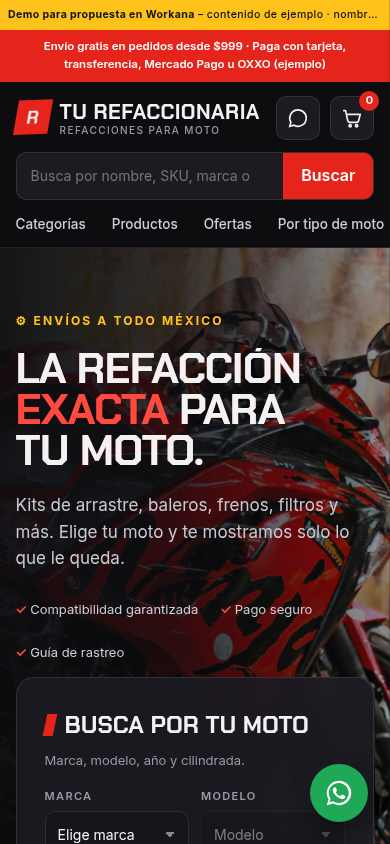
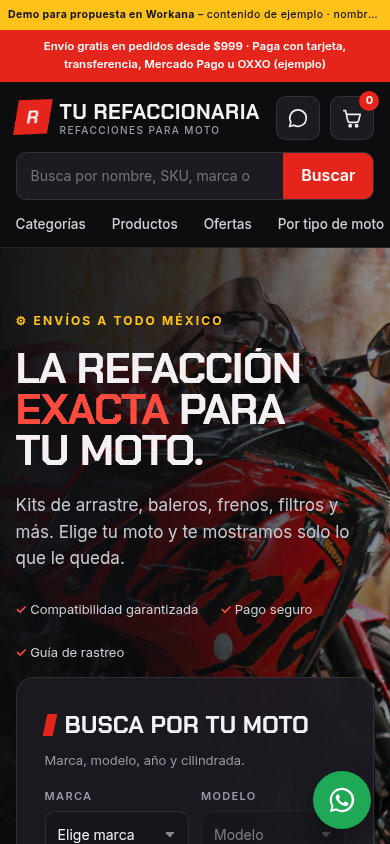
Agregar una moto en carretera animada con el scroll y quitar el cursor amarillo.
La moto recorre la carretera al hacer scroll (GSAP ScrollTrigger), con ruedas que giran, líneas punteadas y paisaje en paralaje. Si el usuario pide menos movimiento, la escena se queda estática. El cursor del sistema vuelve a ser el normal.

Changed region(s): [[0.7692, 0.8934, 0.9538, 0.9858], [0.9846, 0.0, 1.0, 0.0924]]

diff --git a/index.html b/index.html
@@ -16,6 +16,7 @@
 <meta name="robots" content="noindex, follow">
 <meta name="theme-color" content="#0d0d10">
 <!-- anim: padel-port 2026-11-10 -->
+<!-- anim: ride-road 2026-11-10 -->
 <link rel="preconnect" href="https://fonts.googleapis.com"><link rel="preconnect" href="https://fonts.gstatic.com" crossorigin>
 <link href="https://fonts.googleapis.com/css2?family=Chakra+Petch:wght@500;600;700&family=Inter:wght@400;500;600;700&display=swap" rel="stylesheet">
 <script type="application/ld+json">
@@ -223,19 +224,60 @@ header.top.is-scrolled{box-shadow:0 10px 30px -18px rgba(0,0,0,.8)}
 .dots{background-image:radial-gradient(rgba(229,37,27,.14) 1.4px,transparent 1.6px);background-size:22px 22px}
 .cats,.perks{background-size:22px 22px}
 #progress{position:fixed;left:0;right:0;top:0;height:3px;background:var(--red);transform:scaleX(0);transform-origin:0 50%;z-index:100;pointer-events:none}
-#cursor{position:fixed;left:0;top:0;width:14px;height:14px;margin:-7px 0 0 -7px;border-radius:50%;background:var(--yel);z-index:120;pointer-events:none;mix-blend-mode:difference;transition:width .3s,height .3s,margin .3s;opacity:0}
-#cursor.on{opacity:1}
-#cursor.big{width:54px;height:54px;margin:-27px 0 0 -27px}
-html.has-cursor,html.has-cursor *{cursor:none!important}
-html.has-cursor input,html.has-cursor textarea,html.has-cursor select{cursor:text!important}
 .burst{position:absolute;width:10px;height:10px;border-radius:50%;background:var(--yel);pointer-events:none;z-index:5}
 .p,.ty,.pk div,.chip{transform-style:preserve-3d}
 .sec-motion{position:relative;z-index:10}
 .js .hero-anim,.js [data-load]{opacity:0}
 html.reduced .echo-ghost{display:none}
-html.reduced .scroll-cue,html.reduced #cursor,html.reduced #progress{display:none}
+html.reduced .scroll-cue,html.reduced #progress{display:none}
 .drawer,.items{overscroll-behavior:contain}
 @media (max-width:900px){.scroll-cue{display:none}}
+
+/* ---------- scroll-scrubbed road / moto ---------- */
+.ride{position:relative;z-index:8;background:#08080d;color:var(--text)}
+.ride-inner{position:relative;height:100svh;min-height:540px;overflow:hidden}
+.ride-sky{position:absolute;inset:0;background:linear-gradient(180deg,#07070c 0%,#12101a 38%,#2a1518 68%,#6a3218 88%,#c45a28 100%)}
+.ride-stars{position:absolute;inset:0 0 38% 0;opacity:.75;background-image:
+  radial-gradient(1px 1px at 8% 18%,#fff 50%,transparent),
+  radial-gradient(1.2px 1.2px at 22% 8%,#fff 50%,transparent),
+  radial-gradient(1px 1px at 36% 22%,#fff 50%,transparent),
+  radial-gradient(1.4px 1.4px at 48% 10%,#fff 50%,transparent),
+  radial-gradient(1px 1px at 62% 16%,#fff 50%,transparent),
+  radial-gradient(1px 1px at 74% 6%,#fff 50%,transparent),
+  radial-gradient(1.2px 1.2px at 86% 20%,#fff 50%,transparent),
+  radial-gradient(1px 1px at 14% 32%,#fff 50%,transparent),
+  radial-gradient(1px 1px at 58% 28%,#fff 50%,transparent),
+  radial-gradient(1.3px 1.3px at 92% 12%,#fff 50%,transparent);pointer-events:none}
+.ride-far{position:absolute;left:-8%;width:120%;bottom:30%;height:36%;z-index:1}
+.ride-far svg{width:100%;height:100%;display:block}
+.ride-mid{position:absolute;left:0;bottom:28%;width:320%;height:32%;z-index:2;display:flex;align-items:flex-end;gap:8vw;padding:0 4vw;will-change:transform}
+.ride-mid svg{display:block;flex:none;max-height:90px;width:auto}
+.ride-lamps{position:absolute;left:0;bottom:31%;width:320%;height:42%;z-index:3;display:flex;align-items:flex-end;gap:16vw;padding-left:6vw;will-change:transform;pointer-events:none}
+.lamp{position:relative;width:5px;height:72%;background:linear-gradient(#4a4a52,#1a1a1e);border-radius:2px 2px 0 0;flex:none}
+.lamp i{position:absolute;top:-6px;left:50%;width:46px;height:14px;margin-left:-8px;border-radius:0 0 10px 10px;background:#ffc21a;box-shadow:0 10px 28px 8px rgba(255,194,26,.28),0 40px 50px 16px rgba(255,194,26,.08)}
+.ride-road{position:absolute;left:0;right:0;bottom:0;height:34%;z-index:4;background:linear-gradient(180deg,#4a4a52 0%,#242428 10%,#16161a 40%,#101014 100%)}
+.ride-asphalt{position:absolute;left:-5%;width:110%;top:9%;height:42%;background:linear-gradient(180deg,#3a3a42,#1c1c20 40%,#141416);box-shadow:0 -8px 20px rgba(0,0,0,.25) inset;overflow:hidden;transform:perspective(400px) rotateX(12deg);transform-origin:50% 0}
+.ride-dashes{position:absolute;left:0;top:48%;height:7px;width:400%;background:repeating-linear-gradient(90deg,#ffc21a 0 58px,transparent 58px 130px);box-shadow:0 0 10px rgba(255,194,26,.4);will-change:transform}
+.ride-edge{position:absolute;left:0;width:400%;height:3px;background:#e8e8ec;opacity:.85}
+.ride-edge-l{top:10%}.ride-edge-r{bottom:10%}
+.ride-near{position:absolute;left:0;bottom:0;width:320%;height:18%;z-index:6;background:repeating-linear-gradient(90deg,#2a2a30 0 14px,#1a1a1e 14px 18px,#8a8a92 18px 20px,#1a1a1e 20px 70px);opacity:.9;will-change:transform;pointer-events:none}
+.ride-bike{position:absolute;left:6%;bottom:11%;width:min(48vw,640px);z-index:7;will-change:transform;filter:drop-shadow(0 18px 18px rgba(0,0,0,.45))}
+.ride-bike svg{width:100%;height:auto;display:block;overflow:visible}
+.ride-beam{position:absolute;left:78%;top:36%;width:50%;height:30%;background:linear-gradient(90deg,rgba(255,213,106,.5),rgba(255,213,106,.12) 46%,transparent);clip-path:polygon(0 42%,100% 8%,100% 92%,0 58%);filter:blur(2px);pointer-events:none;z-index:0}
+.ride-copy{position:absolute;left:4vw;top:clamp(20px,8vh,70px);z-index:8;max-width:min(520px,90vw)}
+.ride-copy .h2,.ride-copy .echo-main{font-size:clamp(28px,4vw,52px);margin-top:6px;color:var(--text)}
+.ride-copy .echo-ghost{color:var(--red2)}
+.ride-copy p{color:#d8d0c8;max-width:420px;margin-top:10px;font-size:15px}
+html.reduced .ride-bike{left:22%}
+html.reduced .ride-dashes,html.reduced .ride-mid,html.reduced .ride-lamps,html.reduced .ride-near,html.reduced .ride-far{transform:none!important}
+@media (max-width:900px){
+  .ride-inner{min-height:480px}
+  .ride-bike{width:min(78vw,440px);bottom:13%;left:2%}
+  html.reduced .ride-bike{left:8%}
+  .ride-copy{top:16px}
+  .ride-copy p{font-size:13px}
+  .ride-lamps{height:36%}
+}
 @media (prefers-reduced-motion:reduce){
  *,*::before,*::after{animation:none!important;transition:none!important}
  .js .fade,.js .hero-anim,.js [data-load],.js #heroTitle .line>span{opacity:1;transform:none}
@@ -280,6 +322,259 @@ html.reduced .scroll-cue,html.reduced #cursor,html.reduced #progress{display:non
   <div class="myMoto" id="myMoto">Prueba: Italika · FT150 · 2022 · 150 cc</div>
  </form>
  <div class="scroll-cue" data-load><i></i>Desliza</div>
+</section>
+
+<section class="ride" id="ruta" aria-label="Ilustración: una motocicleta recorre una carretera al hacer scroll">
+ <div class="ride-inner">
+  <div class="ride-sky"></div>
+  <div class="ride-stars" aria-hidden="true"></div>
+  <div class="ride-far" aria-hidden="true">
+   <svg viewBox="0 0 1600 200" preserveAspectRatio="none">
+    <path d="M0 200 L0 138 L90 108 L180 128 L280 64 L360 118 L460 86 L560 128 L700 36 L820 118 L960 74 L1080 128 L1220 52 L1360 120 L1500 88 L1600 136 L1600 200Z" fill="#14101a"/>
+    <path d="M0 200 L0 158 L140 138 L280 152 L440 118 L620 148 L800 122 L980 152 L1180 128 L1380 150 L1600 142 L1600 200Z" fill="#1a1620"/>
+   </svg>
+  </div>
+  <div class="ride-mid" id="rideMid" aria-hidden="true"><div><svg viewBox="0 0 80 110" width="70" height="96" fill="#12141a"><path d="M38 110v-70c0-16 12-22 18-22 4 0 8 3 8 9v18c0 4-3 6-6 6-6 0-8-6-8-6v46"/><path d="M38 70c0-14-12-20-18-20-4 0-8 3-8 9v14c0 4 3 6 6 6 6 0 8-6 8-6v37h12"/></svg></div><div><svg viewBox="0 0 120 70" width="110" height="64" fill="#181a20"><path d="M60 70c-4-22-18-50-28-66 16 10 26 30 28 48 2-18 12-38 28-48-10 16-24 44-28 66z"/><path d="M60 70c-14-16-40-28-56-30 18 2 38 14 50 28 8-16 24-36 52-42-22 8-36 26-46 44z" opacity=".85"/></svg></div><div><svg viewBox="0 0 120 130" width="92" height="100"><rect x="54" y="70" width="12" height="60" fill="#2a2a30"/><rect x="8" y="8" width="104" height="66" rx="8" fill="#1b5e2a" stroke="#d8d8d8" stroke-width="3"/><text x="60" y="38" text-anchor="middle" fill="#fff" font-family="Inter,Arial,sans-serif" font-size="13" font-weight="700">MÉXICO</text><text x="60" y="58" text-anchor="middle" fill="#ffc21a" font-family="Inter,Arial,sans-serif" font-size="11" font-weight="700">ENVÍOS</text></svg></div><div><svg viewBox="0 0 80 110" width="70" height="96" fill="#12141a"><path d="M38 110v-70c0-16 12-22 18-22 4 0 8 3 8 9v18c0 4-3 6-6 6-6 0-8-6-8-6v46"/><path d="M38 70c0-14-12-20-18-20-4 0-8 3-8 9v14c0 4 3 6 6 6 6 0 8-6 8-6v37h12"/></svg></div><div><svg viewBox="0 0 120 70" width="110" height="64" fill="#181a20"><path d="M60 70c-4-22-18-50-28-66 16 10 26 30 28 48 2-18 12-38 28-48-10 16-24 44-28 66z"/><path d="M60 70c-14-16-40-28-56-30 18 2 38 14 50 28 8-16 24-36 52-42-22 8-36 26-46 44z" opacity=".85"/></svg></div><div><svg viewBox="0 0 70 90" width="60" height="78" fill="#14161c"><path d="M32 90V28c0-12 10-18 16-18 4 0 7 3 7 8v14c0 3-2 5-5 5-5 0-7-5-7-5v48"/><path d="M32 50c0-10-8-16-14-16-3 0-7 2-7 7v12c0 3 2 5 5 5 5 0 7-5 7-5v37h9"/></svg></div><div><svg viewBox="0 0 120 70" width="110" height="64" fill="#181a20"><path d="M60 70c-4-22-18-50-28-66 16 10 26 30 28 48 2-18 12-38 28-48-10 16-24 44-28 66z"/><path d="M60 70c-14-16-40-28-56-30 18 2 38 14 50 28 8-16 24-36 52-42-22 8-36 26-46 44z" opacity=".85"/></svg></div><div><svg viewBox="0 0 80 110" width="70" height="96" fill="#12141a"><path d="M38 110v-70c0-16 12-22 18-22 4 0 8 3 8 9v18c0 4-3 6-6 6-6 0-8-6-8-6v46"/><path d="M38 70c0-14-12-20-18-20-4 0-8 3-8 9v14c0 4 3 6 6 6 6 0 8-6 8-6v37h12"/></svg></div><div><svg viewBox="0 0 120 130" width="92" height="100"><rect x="54" y="70" width="12" height="60" fill="#2a2a30"/><rect x="8" y="8" width="104" height="66" rx="8" fill="#1b5e2a" stroke="#d8d8d8" stroke-width="3"/><text x="60" y="38" text-anchor="middle" fill="#fff" font-family="Inter,Arial,sans-serif" font-size="13" font-weight="700">MÉXICO</text><text x="60" y="58" text-anchor="middle" fill="#ffc21a" font-family="Inter,Arial,sans-serif" font-size="11" font-weight="700">ENVÍOS</text></svg></div><div><svg viewBox="0 0 120 70" width="110" height="64" fill="#181a20"><path d="M60 70c-4-22-18-50-28-66 16 10 26 30 28 48 2-18 12-38 28-48-10 16-24 44-28 66z"/><path d="M60 70c-14-16-40-28-56-30 18 2 38 14 50 28 8-16 24-36 52-42-22 8-36 26-46 44z" opacity=".85"/></svg></div><div><svg viewBox="0 0 80 110" width="70" height="96" fill="#12141a"><path d="M38 110v-70c0-16 12-22 18-22 4 0 8 3 8 9v18c0 4-3 6-6 6-6 0-8-6-8-6v46"/><path d="M38 70c0-14-12-20-18-20-4 0-8 3-8 9v14c0 4 3 6 6 6 6 0 8-6 8-6v37h12"/></svg></div><div><svg viewBox="0 0 120 70" width="110" height="64" fill="#181a20"><path d="M60 70c-4-22-18-50-28-66 16 10 26 30 28 48 2-18 12-38 28-48-10 16-24 44-28 66z"/><path d="M60 70c-14-16-40-28-56-30 18 2 38 14 50 28 8-16 24-36 52-42-22 8-36 26-46 44z" opacity=".85"/></svg></div><div><svg viewBox="0 0 80 110" width="70" height="96" fill="#12141a"><path d="M38 110v-70c0-16 12-22 18-22 4 0 8 3 8 9v18c0 4-3 6-6 6-6 0-8-6-8-6v46"/><path d="M38 70c0-14-12-20-18-20-4 0-8 3-8 9v14c0 4 3 6 6 6 6 0 8-6 8-6v37h12"/></svg></div><div><svg viewBox="0 0 120 70" width="110" height="64" fill="#181a20"><path d="M60 70c-4-22-18-50-28-66 16 10 26 30 28 48 2-18 12-38 28-48-10 16-24 44-28 66z"/><path d="M60 70c-14-16-40-28-56-30 18 2 38 14 50 28 8-16 24-36 52-42-22 8-36 26-46 44z" opacity=".85"/></svg></div><div><svg viewBox="0 0 120 130" width="92" height="100"><rect x="54" y="70" width="12" height="60" fill="#2a2a30"/><rect x="8" y="8" width="104" height="66" rx="8" fill="#1b5e2a" stroke="#d8d8d8" stroke-width="3"/><text x="60" y="38" text-anchor="middle" fill="#fff" font-family="Inter,Arial,sans-serif" font-size="13" font-weight="700">MÉXICO</text><text x="60" y="58" text-anchor="middle" fill="#ffc21a" font-family="Inter,Arial,sans-serif" font-size="11" font-weight="700">ENVÍOS</text></svg></div><div><svg viewBox="0 0 80 110" width="70" height="96" fill="#12141a"><path d="M38 110v-70c0-16 12-22 18-22 4 0 8 3 8 9v18c0 4-3 6-6 6-6 0-8-6-8-6v46"/><path d="M38 70c0-14-12-20-18-20-4 0-8 3-8 9v14c0 4 3 6 6 6 6 0 8-6 8-6v37h12"/></svg></div><div><svg viewBox="0 0 120 70" width="110" height="64" fill="#181a20"><path d="M60 70c-4-22-18-50-28-66 16 10 26 30 28 48 2-18 12-38 28-48-10 16-24 44-28 66z"/><path d="M60 70c-14-16-40-28-56-30 18 2 38 14 50 28 8-16 24-36 52-42-22 8-36 26-46 44z" opacity=".85"/></svg></div><div><svg viewBox="0 0 70 90" width="60" height="78" fill="#14161c"><path d="M32 90V28c0-12 10-18 16-18 4 0 7 3 7 8v14c0 3-2 5-5 5-5 0-7-5-7-5v48"/><path d="M32 50c0-10-8-16-14-16-3 0-7 2-7 7v12c0 3 2 5 5 5 5 0 7-5 7-5v37h9"/></svg></div><div><svg viewBox="0 0 120 70" width="110" height="64" fill="#181a20"><path d="M60 70c-4-22-18-50-28-66 16 10 26 30 28 48 2-18 12-38 28-48-10 16-24 44-28 66z"/><path d="M60 70c-14-16-40-28-56-30 18 2 38 14 50 28 8-16 24-36 52-42-22 8-36 26-46 44z" opacity=".85"/></svg></div><div><svg viewBox="0 0 80 110" width="70" height="96" fill="#12141a"><path d="M38 110v-70c0-16 12-22 18-22 4 0 8 3 8 9v18c0 4-3 6-6 6-6 0-8-6-8-6v46"/><path d="M38 70c0-14-12-20-18-20-4 0-8 3-8 9v14c0 4 3 6 6 6 6 0 8-6 8-6v37h12"/></svg></div><div><svg viewBox="0 0 120 130" width="92" height="100"><rect x="54" y="70" width="12" height="60" fill="#2a2a30"/><rect x="8" y="8" width="104" height="66" rx="8" fill="#1b5e2a" stroke="#d8d8d8" stroke-width="3"/><text x="60" y="38" text-anchor="middle" fill="#fff" font-family="Inter,Arial,sans-serif" font-size="13" font-weight="700">MÉXICO</text><text x="60" y="58" text-anchor="middle" fill="#ffc21a" font-family="Inter,Arial,sans-serif" font-size="11" font-weight="700">ENVÍOS</text></svg></div><div><svg viewBox="0 0 120 70" width="110" height="64" fill="#181a20"><path d="M60 70c-4-22-18-50-28-66 16 10 26 30 28 48 2-18 12-38 28-48-10 16-24 44-28 66z"/><path d="M60 70c-14-16-40-28-56-30 18 2 38 14 50 28 8-16 24-36 52-42-22 8-36 26-46 44z" opacity=".85"/></svg></div><div><svg viewBox="0 0 80 110" width="70" height="96" fill="#12141a"><path d="M38 110v-70c0-16 12-22 18-22 4 0 8 3 8 9v18c0 4-3 6-6 6-6 0-8-6-8-6v46"/><path d="M38 70c0-14-12-20-18-20-4 0-8 3-8 9v14c0 4 3 6 6 6 6 0 8-6 8-6v37h12"/></svg></div><div><svg viewBox="0 0 120 70" width="110" height="64" fill="#181a20"><path d="M60 70c-4-22-18-50-28-66 16 10 26 30 28 48 2-18 12-38 28-48-10 16-24 44-28 66z"/><path d="M60 70c-14-16-40-28-56-30 18 2 38 14 50 28 8-16 24-36 52-42-22 8-36 26-46 44z" opacity=".85"/></svg></div></div>
+  <div class="ride-lamps" id="rideLamps" aria-hidden="true"><div class="lamp"><i></i></div><div class="lamp"><i></i></div><div class="lamp"><i></i></div><div class="lamp"><i></i></div><div class="lamp"><i></i></div><div class="lamp"><i></i></div><div class="lamp"><i></i></div><div class="lamp"><i></i></div><div class="lamp"><i></i></div><div class="lamp"><i></i></div><div class="lamp"><i></i></div><div class="lamp"><i></i></div><div class="lamp"><i></i></div><div class="lamp"><i></i></div></div>
+  <div class="ride-road" aria-hidden="true">
+   <div class="ride-asphalt">
+    <div class="ride-edge ride-edge-l"></div>
+    <div class="ride-dashes" id="rideDashes"></div>
+    <div class="ride-edge ride-edge-r"></div>
+   </div>
+   <div class="ride-near" id="rideNear"></div>
+  </div>
+  <div class="ride-bike" id="rideBike">
+   <div class="ride-beam"></div>
+   <svg viewBox="0 0 820 440" fill="none" aria-hidden="true">
+  <defs>
+    <linearGradient id="rb-redBody" x1="200" y1="120" x2="660" y2="320" gradientUnits="userSpaceOnUse">
+      <stop offset="0" stop-color="#ff6a5c"/>
+      <stop offset=".35" stop-color="#e5251b"/>
+      <stop offset=".72" stop-color="#b31410"/>
+      <stop offset="1" stop-color="#6e0c0a"/>
+    </linearGradient>
+    <linearGradient id="rb-redDark" x1="0" y1="0" x2="0" y2="1">
+      <stop offset="0" stop-color="#c41b14"/>
+      <stop offset="1" stop-color="#5a0c0a"/>
+    </linearGradient>
+    <linearGradient id="rb-shine" x1="0" y1="0" x2="0" y2="1">
+      <stop offset="0" stop-color="#fff" stop-opacity=".4"/>
+      <stop offset=".55" stop-color="#fff" stop-opacity=".06"/>
+      <stop offset="1" stop-color="#fff" stop-opacity="0"/>
+    </linearGradient>
+    <linearGradient id="rb-metal" x1="0" y1="0" x2="0" y2="1">
+      <stop offset="0" stop-color="#edeff2"/>
+      <stop offset=".45" stop-color="#9aa0a8"/>
+      <stop offset="1" stop-color="#3e4248"/>
+    </linearGradient>
+    <linearGradient id="rb-metalFlat" x1="0" y1="0" x2="1" y2="1">
+      <stop offset="0" stop-color="#8a9098"/>
+      <stop offset="1" stop-color="#1c1e22"/>
+    </linearGradient>
+    <linearGradient id="rb-engineG" x1="300" y1="250" x2="460" y2="360" gradientUnits="userSpaceOnUse">
+      <stop offset="0" stop-color="#6a7078"/>
+      <stop offset=".4" stop-color="#2e3238"/>
+      <stop offset="1" stop-color="#121416"/>
+    </linearGradient>
+    <linearGradient id="rb-seatG" x1="0" y1="0" x2="0" y2="1">
+      <stop offset="0" stop-color="#3a3a42"/>
+      <stop offset="1" stop-color="#0c0c10"/>
+    </linearGradient>
+    <linearGradient id="rb-suit" x1="0" y1="0" x2="1" y2="1">
+      <stop offset="0" stop-color="#2c2e34"/>
+      <stop offset=".55" stop-color="#14151a"/>
+      <stop offset="1" stop-color="#08080a"/>
+    </linearGradient>
+    <linearGradient id="rb-helmetG" x1="470" y1="60" x2="560" y2="170" gradientUnits="userSpaceOnUse">
+      <stop offset="0" stop-color="#3e424a"/>
+      <stop offset=".4" stop-color="#1a1c20"/>
+      <stop offset="1" stop-color="#08090b"/>
+    </linearGradient>
+    <linearGradient id="rb-visorG" x1="0" y1="0" x2="1" y2="1">
+      <stop offset="0" stop-color="#9ad4ee" stop-opacity=".6"/>
+      <stop offset=".45" stop-color="#1a2a32" stop-opacity=".92"/>
+      <stop offset="1" stop-color="#05070a"/>
+    </linearGradient>
+    <linearGradient id="rb-forkG" x1="0" y1="0" x2="1" y2="0">
+      <stop offset="0" stop-color="#f0f2f5"/>
+      <stop offset=".5" stop-color="#8b9098"/>
+      <stop offset="1" stop-color="#3a3e44"/>
+    </linearGradient>
+    <radialGradient id="rb-hubG" cx="50%" cy="38%" r="62%">
+      <stop offset="0" stop-color="#f4f5f7"/>
+      <stop offset=".4" stop-color="#9aa0a8"/>
+      <stop offset="1" stop-color="#26282c"/>
+    </radialGradient>
+    <radialGradient id="rb-tireG" cx="34%" cy="28%" r="78%">
+      <stop offset="0" stop-color="#3a3a42"/>
+      <stop offset=".5" stop-color="#141418"/>
+      <stop offset="1" stop-color="#050506"/>
+    </radialGradient>
+    <linearGradient id="rb-discG" x1="0" y1="0" x2="1" y2="1">
+      <stop offset="0" stop-color="#d0d4da"/>
+      <stop offset=".5" stop-color="#7a8088"/>
+      <stop offset="1" stop-color="#3a3e44"/>
+    </linearGradient>
+    <filter id="rb-glowRed" x="-60%" y="-60%" width="220%" height="220%">
+      <feGaussianBlur stdDeviation="3.5" result="b"/>
+      <feMerge><feMergeNode in="b"/><feMergeNode in="SourceGraphic"/></feMerge>
+    </filter>
+    <filter id="rb-glowAmber" x="-80%" y="-80%" width="260%" height="260%">
+      <feGaussianBlur stdDeviation="6" result="b"/>
+      <feMerge><feMergeNode in="b"/><feMergeNode in="SourceGraphic"/></feMerge>
+    </filter>
+    <g id="rb-wheelArt">
+      <circle r="73" fill="url(#rb-tireG)"/>
+      <circle r="73" fill="none" stroke="#070708" stroke-width="2.4"/>
+      <circle r="63.5" fill="none" stroke="#2a2a30" stroke-width="5.5"/>
+      <circle r="59.5" fill="none" stroke="#111114" stroke-width="1.1"/>
+      <g stroke="#0a0a0c" stroke-width="1.3" opacity=".65">
+        <path d="M0 -73v6M0 73v-6M73 0h-6M-73 0h6M51.6 -51.6l-4.2 4.2M-51.6 51.6l4.2-4.2M51.6 51.6l-4.2-4.2M-51.6 -51.6l4.2 4.2"/>
+      </g>
+      <circle r="42" fill="url(#rb-discG)"/>
+      <circle r="39" fill="none" stroke="#c4c8ce" stroke-width="1.1"/>
+      <g fill="#1a1c20">
+        <circle r="4" cx="18" cy="0"/><circle r="4" cx="-18" cy="0"/>
+        <circle r="4" cx="0" cy="18"/><circle r="4" cx="0" cy="-18"/>
+        <circle r="4" cx="12.7" cy="12.7"/><circle r="4" cx="-12.7" cy="12.7"/>
+        <circle r="4" cx="12.7" cy="-12.7"/><circle r="4" cx="-12.7" cy="-12.7"/>
+      </g>
+      <circle r="50" fill="none" stroke="#e2e4e8" stroke-width="3"/>
+      <circle r="47" fill="none" stroke="#555960" stroke-width="1"/>
+      <g fill="url(#rb-metal)">
+        <path d="M-6.5 -7.5 L6.5 -7.5 L5 -48.5 L-5 -48.5Z"/>
+        <path d="M-6.5 -7.5 L6.5 -7.5 L5 -48.5 L-5 -48.5Z" transform="rotate(72)"/>
+        <path d="M-6.5 -7.5 L6.5 -7.5 L5 -48.5 L-5 -48.5Z" transform="rotate(144)"/>
+        <path d="M-6.5 -7.5 L6.5 -7.5 L5 -48.5 L-5 -48.5Z" transform="rotate(216)"/>
+        <path d="M-6.5 -7.5 L6.5 -7.5 L5 -48.5 L-5 -48.5Z" transform="rotate(288)"/>
+      </g>
+      <circle r="12.5" fill="url(#rb-hubG)" stroke="#eee" stroke-width="1.5"/>
+      <circle r="4.8" fill="#222" stroke="#bbb" stroke-width="1"/>
+      <circle r="1.5" fill="#f2f2f2"/>
+    </g>
+  </defs>
+
+  <ellipse cx="405" cy="424" rx="300" ry="13" fill="#000" opacity=".48"/>
+
+  <g id="wheelBack" transform="translate(215 355)">
+    <g class="wheel-spin"><use href="#rb-wheelArt"/></g>
+    <g transform="rotate(-30)">
+      <rect x="37" y="-13" width="20" height="26" rx="3.5" fill="#1a1c20" stroke="#666" stroke-width="1"/>
+      <rect x="41" y="-8" width="12" height="16" rx="2" fill="#c41b14"/>
+    </g>
+  </g>
+
+  <path d="M268 300 L292 250" stroke="#2a2c30" stroke-width="7" stroke-linecap="round"/>
+  <path d="M268 300 L292 250" stroke="#9aa0a8" stroke-width="2.2" stroke-linecap="round" opacity=".5"/>
+  <rect x="274" y="262" width="14" height="28" rx="3" fill="#c41b14" transform="rotate(-50 281 276)"/>
+
+  <path d="M215 346 C270 328 315 324 362 322 L364 344 C318 348 270 354 215 360Z" fill="url(#rb-metalFlat)" stroke="#0a0a0c" stroke-width="1.2"/>
+  <path d="M222 348 C270 334 316 330 360 328" stroke="#c0c4ca" stroke-width="1.3" opacity=".4"/>
+
+  <path d="M215 378 C280 384 325 362 360 348" fill="none" stroke="#111" stroke-width="5.5" stroke-linecap="round"/>
+  <path d="M215 378 C280 384 325 362 360 348" fill="none" stroke="#7a7e84" stroke-width="2" stroke-dasharray="3.5 2.8" stroke-linecap="round"/>
+
+  <path d="M430 338 C360 356 300 358 228 336" fill="none" stroke="#1c1e22" stroke-width="11" stroke-linecap="round"/>
+  <path d="M430 338 C360 356 300 358 228 336" fill="none" stroke="#8a9098" stroke-width="4" stroke-linecap="round"/>
+  <rect x="198" y="324" width="44" height="18" rx="8" fill="#2a2c30" stroke="#bbb" stroke-width="1.3" transform="rotate(-18 220 333)"/>
+  <circle cx="204" cy="328" r="6" fill="#0a0a0c" stroke="#888" stroke-width="1"/>
+
+  <g>
+    <path d="M348 286 L458 278 L470 338 L456 368 L350 368 L338 330Z" fill="url(#rb-engineG)" stroke="#0a0a0c" stroke-width="1.3"/>
+    <rect x="358" y="292" width="44" height="56" rx="4" fill="#1e2024" stroke="#5a5e64" stroke-width="1"/>
+    <rect x="408" y="290" width="44" height="56" rx="4" fill="#1e2024" stroke="#5a5e64" stroke-width="1"/>
+    <path d="M362 306h36M362 320h36M362 334h36M412 304h36M412 318h36M412 332h36" stroke="#7a8088" stroke-width="1.15"/>
+    <circle cx="380" cy="346" r="5.5" fill="#3a3e44" stroke="#999" stroke-width=".8"/>
+    <circle cx="430" cy="346" r="5.5" fill="#3a3e44" stroke="#999" stroke-width=".8"/>
+    <circle cx="360" cy="350" r="20" fill="#2a2e32" stroke="#8a9098" stroke-width="1.4"/>
+    <circle cx="360" cy="350" r="10" fill="none" stroke="#555" stroke-width="1.1"/>
+    <circle cx="360" cy="350" r="3" fill="#888"/>
+    <rect x="462" y="300" width="16" height="52" rx="2" fill="#1a1c20" stroke="#555" stroke-width=".8"/>
+    <path d="M465 308h10M465 316h10M465 324h10M465 332h10M465 340h10" stroke="#4a80c8" stroke-width="1" opacity=".7"/>
+  </g>
+
+  <path d="M430 330 C470 324 510 328 548 350 L530 372 C490 360 450 362 420 370 L430 330Z" fill="url(#rb-redDark)" stroke="#5a0a08" stroke-width="1"/>
+  <path d="M440 338 C480 332 516 336 542 352" stroke="#ff8a7a" stroke-width="1.2" opacity=".25"/>
+
+  <path d="M370 286 C430 230 500 208 558 214" fill="none" stroke="#2a2c32" stroke-width="9" stroke-linecap="round"/>
+  <path d="M370 286 C430 230 500 208 558 214" fill="none" stroke="#a0a6ae" stroke-width="2" stroke-linecap="round" opacity=".4"/>
+  <path d="M430 290 L556 248" stroke="#2a2c32" stroke-width="6" stroke-linecap="round"/>
+
+  <path d="M236 248 C250 214 292 198 338 206 C360 210 372 222 378 236 L372 262 C330 276 280 280 242 268 C228 260 226 250 236 248Z" fill="url(#rb-redBody)" stroke="#5a0a08" stroke-width="1.15"/>
+  <path d="M250 228 C280 210 324 210 350 224" stroke="#fff" stroke-width="2.4" opacity=".18" stroke-linecap="round"/>
+  <g filter="url(#rb-glowRed)">
+    <path d="M236 242 C240 236 246 236 250 242 C246 250 238 250 236 242Z" fill="#ff4a3a"/>
+    <ellipse cx="242" cy="242" rx="4" ry="2.4" fill="#ffd0c8"/>
+  </g>
+  <path d="M318 210 C346 196 372 200 390 216 L378 236 C360 224 340 220 322 228Z" fill="url(#rb-seatG)"/>
+
+  <path d="M372 214 C430 192 490 196 528 222 L516 244 C480 222 430 218 380 236Z" fill="url(#rb-seatG)" stroke="#0a0a0c" stroke-width=".8"/>
+  <path d="M400 214 C450 200 496 204 522 224" stroke="#555" stroke-width="1.2" opacity=".45"/>
+
+  <path d="M430 176 C468 146 528 142 574 172 C592 186 590 208 574 226 C546 252 492 264 444 254 C418 246 412 214 424 190 C426 184 428 179 430 176Z" fill="url(#rb-redBody)" stroke="#5a0a08" stroke-width="1.2"/>
+  <path d="M448 178 C486 156 536 154 566 178 C576 186 574 202 560 210 C528 196 484 188 450 200 C444 188 444 182 448 178Z" fill="url(#rb-shine)"/>
+  <circle cx="520" cy="198" r="8" fill="none" stroke="#ffc21a" stroke-width="1.4" opacity=".75"/>
+  <path d="M517 198 l3.2 4.2 6.6-8.6" stroke="#ffc21a" stroke-width="1.4" fill="none" stroke-linecap="round" opacity=".75"/>
+
+  <path d="M350 248 C400 270 460 274 520 248 L505 300 C450 322 390 320 340 300 Z" fill="#1a0a0a" opacity=".92"/>
+  <path d="M360 286 C410 304 470 304 515 286" stroke="#e5251b" stroke-width="1.2" opacity=".2"/>
+  <g id="rider">
+    <path d="M404 248 C416 286 404 318 382 342" fill="none" stroke="#12131a" stroke-width="15" stroke-linecap="round"/>
+    <path d="M368 336 C384 328 400 342 394 356 C384 368 360 366 358 352 C356 342 360 336 368 336Z" fill="#1a1c22" stroke="#050506" stroke-width=".8"/>
+    <path d="M362 350 h26" stroke="#ffc21a" stroke-width="1.15" opacity=".55"/>
+    <path d="M412 222 C438 236 444 272 422 304" fill="none" stroke="url(#rb-suit)" stroke-width="17" stroke-linecap="round"/>
+    <path d="M400 214 C428 200 470 204 492 222 C498 240 484 258 452 266 C420 272 396 258 392 236 C390 224 394 216 400 214Z" fill="url(#rb-suit)" stroke="#050506" stroke-width=".9"/>
+    <path d="M452 214 C484 184 528 170 558 180 C568 200 560 222 538 234 C506 250 470 252 444 238 C434 228 436 218 452 214Z" fill="url(#rb-suit)" stroke="#050506" stroke-width=".9"/>
+    <path d="M470 204 C508 186 542 180 564 188" fill="none" stroke="#e5251b" stroke-width="3.6" stroke-linecap="round"/>
+    <path d="M530 196 C552 206 572 220 590 236" fill="none" stroke="#101116" stroke-width="11" stroke-linecap="round"/>
+    <path d="M548 188 C568 196 586 208 604 222" fill="none" stroke="#1a1c22" stroke-width="12.5" stroke-linecap="round"/>
+    <ellipse cx="608" cy="224" rx="11" ry="7.5" fill="#1a1c22" stroke="#050506" stroke-width=".7" transform="rotate(22 608 224)"/>
+    <path d="M546 176 C558 170 568 176 566 190" fill="none" stroke="#2a2c32" stroke-width="4.5" stroke-linecap="round"/>
+    <path d="M526 96 C556 80 598 90 612 126 C622 154 608 178 578 186 C548 194 518 180 512 150 C506 120 512 102 526 96Z" fill="url(#rb-helmetG)" stroke="#050506" stroke-width="1.4"/>
+    <path d="M544 108 C566 96 590 104 600 122" fill="none" stroke="#fff" stroke-width="2.1" stroke-linecap="round" opacity=".28"/>
+    <path d="M534 108 C560 92 594 102 610 126" fill="none" stroke="#e5251b" stroke-width="2.8" stroke-linecap="round"/>
+    <path d="M558 124 C580 112 606 120 614 144 C602 162 572 166 548 156 C544 144 548 130 558 124Z" fill="url(#rb-visorG)" stroke="#050506" stroke-width="1"/>
+    <path d="M568 128 C584 120 602 126 608 140" fill="none" stroke="#c8ecff" stroke-width="1.15" opacity=".4"/>
+  </g>
+
+  <g id="wheelFront" transform="translate(610 355)">
+    <g class="wheel-spin"><use href="#rb-wheelArt"/></g>
+    <g transform="rotate(16)">
+      <rect x="37" y="-13" width="20" height="26" rx="3.5" fill="#1a1c20" stroke="#666" stroke-width="1"/>
+      <rect x="41" y="-8" width="12" height="16" rx="2" fill="#c41b14"/>
+    </g>
+  </g>
+
+  <path d="M556 208 L622 350" stroke="#1a1c20" stroke-width="12" stroke-linecap="round"/>
+  <path d="M564 206 L630 350" stroke="url(#rb-forkG)" stroke-width="8.5" stroke-linecap="round"/>
+  <path d="M550 208 L614 350" stroke="url(#rb-forkG)" stroke-width="8.5" stroke-linecap="round"/>
+  <path d="M558 220 L618 338" stroke="#fff" stroke-width="1.3" opacity=".28" stroke-linecap="round"/>
+
+  <path d="M568 300 C592 274 636 274 662 304 C650 290 610 272 576 290Z" fill="url(#rb-redBody)" stroke="#5a0a08" stroke-width="1"/>
+
+  <path d="M560 196 C588 168 632 168 654 196 C662 214 648 230 622 236 C588 242 556 226 560 196Z" fill="url(#rb-redBody)" stroke="#5a0a08" stroke-width="1.15"/>
+  <path d="M580 184 C608 170 638 174 648 196" stroke="#fff" stroke-width="1.8" opacity=".2" stroke-linecap="round"/>
+  <g filter="url(#rb-glowAmber)">
+    <ellipse cx="632" cy="202" rx="17" ry="13" fill="#ffd56a"/>
+    <ellipse cx="634" cy="200" rx="10" ry="8" fill="#fff4c8"/>
+  </g>
+  <ellipse cx="632" cy="202" rx="17" ry="13" fill="none" stroke="#1a1a1c" stroke-width="1.2"/>
+
+  <rect x="546" y="196" width="30" height="11" rx="2" fill="url(#rb-metal)" stroke="#111" stroke-width=".6"/>
+  <path d="M568 200 C590 190 612 196 628 210" fill="none" stroke="#1a1c20" stroke-width="5.5" stroke-linecap="round"/>
+  <circle cx="628" cy="212" r="5" fill="#2a2c30" stroke="#888" stroke-width=".6"/>
+
+  <rect x="372" y="340" width="22" height="6" rx="2" fill="#9aa0a8"/>
+</svg>
+
+  </div>
+  <div class="ride-copy">
+   <div class="label fade">En el camino</div>
+   <h2 class="h2 fade">Piezas para cada kilómetro</h2>
+   <p class="fade">La moto avanza con el scroll: un ejemplo de la animación de la propuesta.</p>
+  </div>
+ </div>
 </section>
 
 <section class="cats dots sec-motion" id="categorias">
@@ -501,7 +796,7 @@ html.reduced .scroll-cue,html.reduced #cursor,html.reduced #progress{display:non
  gsap.registerPlugin(ScrollTrigger);
  if(reduce){document.documentElement.classList.add('reduced');return}
  document.documentElement.classList.add('js');
- if(window.Lenis){lenis=new Lenis({lerp:.09,smoothWheel:true});lenis.on('scroll',ScrollTrigger.update);gsap.ticker.add(function(t){lenis.raf(t*1000)});gsap.ticker.lagSmoothing(0)}
+ if(window.Lenis){lenis=new Lenis({lerp:.09,smoothWheel:true});lenis.on('scroll',ScrollTrigger.update);gsap.ticker.add(function(t){lenis.raf(t*1000)});gsap.ticker.lagSmoothing(0);window.__lenis=lenis}
  document.querySelectorAll('a[href^="#"]:not(.wa-link):not([data-cat])').forEach(function(a){a.addEventListener('click',function(e){var h=a.getAttribute('href');if(h.length>1&&document.querySelector(h)){e.preventDefault();go(h)}})});
 
  var vh=function(n){return function(){return innerHeight*n/100}};
@@ -598,6 +893,31 @@ html.reduced .scroll-cue,html.reduced #cursor,html.reduced #progress{display:non
  document.querySelectorAll('.menu a[href^="#"]').forEach(function(p){var t=document.querySelector(p.getAttribute('href'));if(!t)return;
   ScrollTrigger.create({trigger:t,start:'top 50%',end:'bottom 50%',onToggle:function(self){p.classList.toggle('is-on',self.isActive)}})});
 
+
+ /* road: moto travels, wheels spin, dashes and scenery scrub with scroll */
+ (function(){
+  var ride=document.querySelector('.ride');if(!ride)return;
+  var bike=document.getElementById('rideBike');
+  var dashes=document.getElementById('rideDashes');
+  var wheels=ride.querySelectorAll('.wheel-spin');
+  var mid=document.getElementById('rideMid');
+  var lamps=document.getElementById('rideLamps');
+  var near=document.getElementById('rideNear');
+  var far=ride.querySelector('.ride-far');
+  var wheelProxy={r:0};
+  var tl=gsap.timeline({defaults:{ease:'none'},scrollTrigger:{
+    trigger:ride,start:'top top',end:'+=220%',pin:true,scrub:.75,anticipatePin:1,invalidateOnRefresh:true
+  }});
+  tl.fromTo(bike,{x:function(){return -Math.min(80,bike.offsetWidth*.12)}},{x:function(){return Math.max(innerWidth*.48,innerWidth-bike.offsetWidth*.7)},ease:'none'},0);
+  tl.to(bike,{keyframes:[{y:0},{y:-5},{y:0},{y:-7},{y:-2},{y:-6}],ease:'none',duration:1},0);
+  tl.to(wheelProxy,{r:1980,duration:1,onUpdate:function(){for(var i=0;i<wheels.length;i++)wheels[i].setAttribute('transform','rotate('+wheelProxy.r+')');}},0);
+  tl.fromTo(dashes,{x:0},{x:function(){return -dashes.offsetWidth*.42},ease:'none'},0);
+  if(mid)tl.fromTo(mid,{x:0},{x:function(){return -mid.scrollWidth*.35},ease:'none'},0);
+  if(lamps)tl.fromTo(lamps,{x:0},{x:function(){return -lamps.scrollWidth*.4},ease:'none'},0);
+  if(near)tl.fromTo(near,{x:0},{x:function(){return -near.scrollWidth*.48},ease:'none'},0);
+  if(far)tl.fromTo(far,{x:0},{x:function(){return -innerWidth*.1},ease:'none'},0);
+ })();
+
  /* interaction FX */
  FX.pop=function(el){gsap.fromTo(el,{scale:.82},{scale:1,duration:.5,ease:'back.out(3)'})};
  FX.shake=function(el){gsap.fromTo(el,{x:-12},{x:0,duration:.6,ease:'elastic.out(1.2,.25)'})};
@@ -614,14 +934,6 @@ html.reduced .scroll-cue,html.reduced #cursor,html.reduced #progress{display:non
 
  /* magnetic buttons + 3D-tilting photos/cards (mouse only) */
  mm.add('(hover:hover) and (pointer:fine)',function(){
-  document.documentElement.classList.add('has-cursor');
-  var cur=document.createElement('div');cur.id='cursor';document.body.appendChild(cur);
-  var cx=gsap.quickTo(cur,'left',{duration:.25,ease:'power3'}),cy=gsap.quickTo(cur,'top',{duration:.25,ease:'power3'});
-  addEventListener('pointermove',function(e){cx(e.clientX);cy(e.clientY);cur.classList.add('on')});
-  addEventListener('pointerleave',function(){cur.classList.remove('on')});
-  var grow='.btn,.chip,.add,.ib,.ty,.p,.logo,.fab';
-  document.addEventListener('pointerover',function(e){if(e.target.closest(grow))cur.classList.add('big')});
-  document.addEventListener('pointerout',function(e){if(e.target.closest(grow)&&(!e.relatedTarget||!e.relatedTarget.closest||!e.relatedTarget.closest(grow)))cur.classList.remove('big')});
   function magnetize(b){
    if(b.dataset.mag)return;b.dataset.mag='1';
    var mx=gsap.quickTo(b,'x',{duration:.4,ease:'power3'}),my=gsap.quickTo(b,'y',{duration:.4,ease:'power3'});
